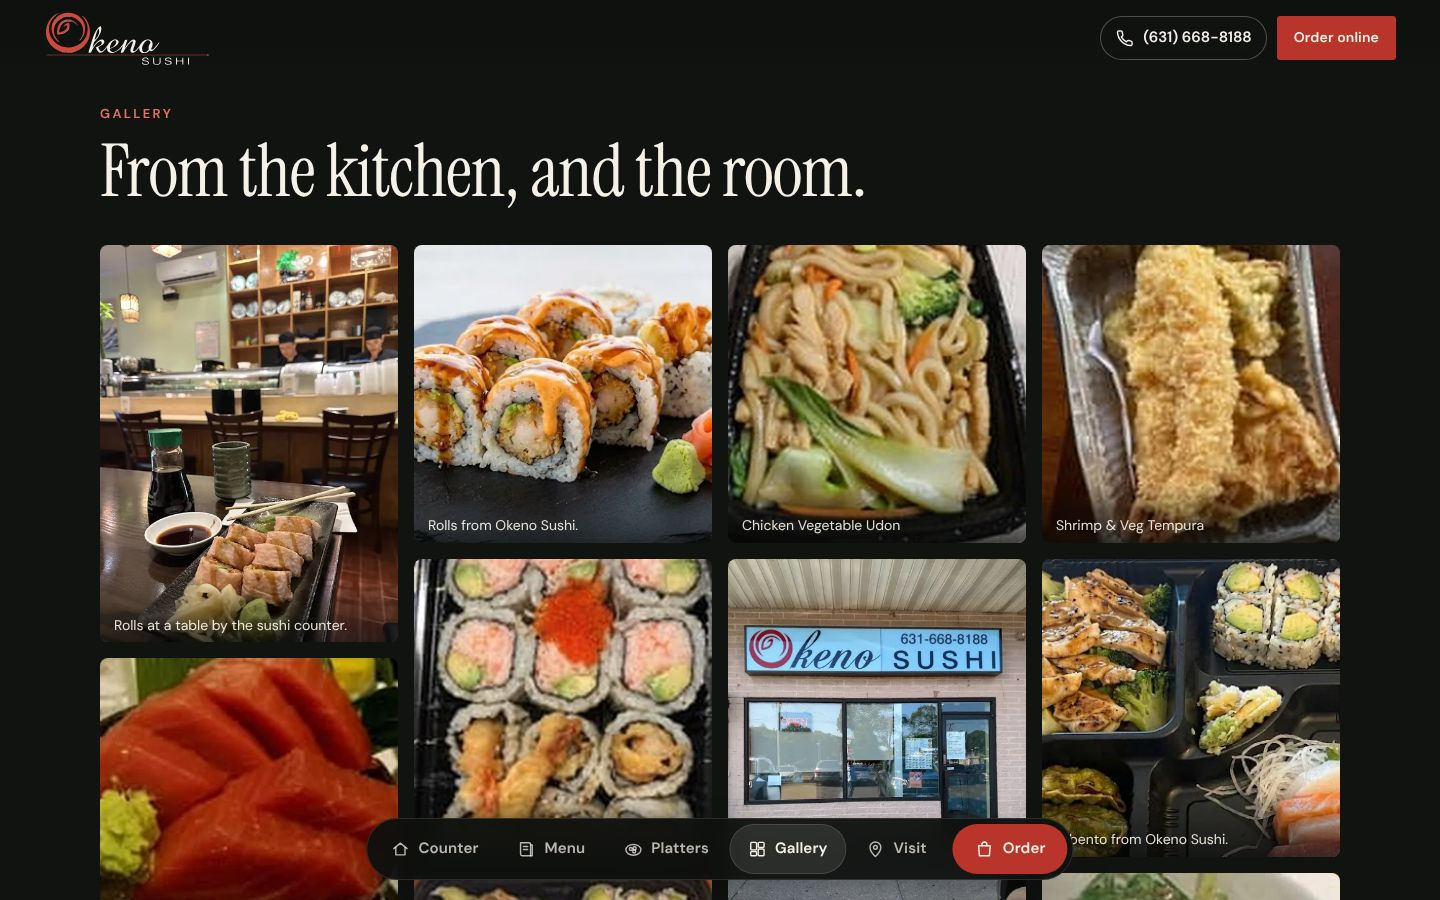
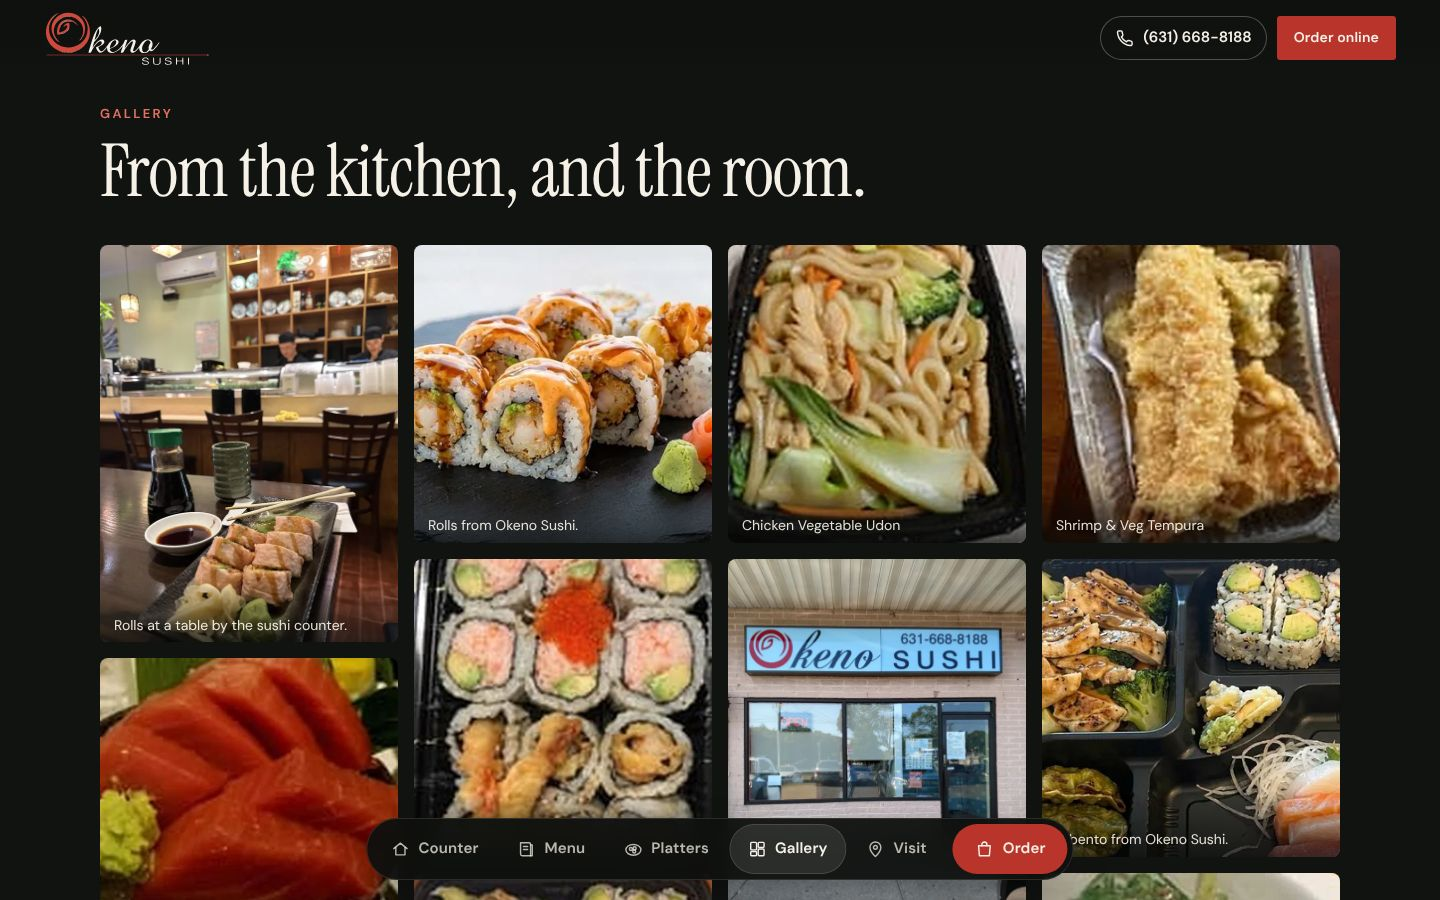
Use full-resolution originals for the four restaurant photos
Same design; only the image files change. The storefront and counter photos
now come from the 3000x4000 originals and the rolls and bento photos from the
1200px originals, with 600 and 1200 px web copies, so the gallery, lightbox
and visit photos are no longer stretched on high-density screens. The preload
and share image point at files that exist.

Claude-Session: https://claude.ai/code/session_01Q9Gd69AnLFXEvYT7HTwv8M

diff --git a/src/data/images.ts b/src/data/images.ts
@@ -38,23 +38,26 @@ const photo = (
   };
 };
 
+/** Small copy of the counter photo for the blurred light behind the counter scene. */
+export const COUNTER_GLOW = "/images/counter-600.jpg";
+
 export const PHOTOS = {
-  counter: photo("counter", "counter", 768, 1024, [480, 768], {
+  counter: photo("counter", "counter", 1200, 1600, [600, 1200], {
     alt: "A plate of sauced rolls with ginger and wasabi on a table, with the wooden sushi counter and two chefs behind it",
     caption: "Rolls at a table by the sushi counter.",
     credit: "Photo: marlyn meneses, via Google Maps",
   }),
-  rolls: photo("rolls", "rolls", 520, 290, [520], {
+  rolls: photo("rolls", "rolls", 1200, 669, [600, 1200], {
     alt: "Sauce-topped sushi rolls on a round dark slate with pickled ginger and wasabi",
     caption: "Rolls from Okeno Sushi.",
     credit: "Photo: DoorDash listing, via Google Maps",
   }),
-  bento: photo("bento", "bento", 520, 290, [520], {
+  bento: photo("bento", "bento", 1200, 669, [600, 1200], {
     alt: "A bento tray with grilled chicken and broccoli, a sesame roll, tempura, dumplings and sashimi",
     caption: "A bento from Okeno Sushi.",
     credit: "Photo: DoorDash listing, via Google Maps",
   }),
-  storefront: photo("storefront", "storefront", 768, 1024, [480, 768], {
+  storefront: photo("storefront", "storefront", 1200, 1600, [600, 1200], {
     alt: "The Okeno Sushi storefront: a brick shopfront with a lit sign reading Okeno Sushi 631-668-8188, an OPEN sign in the window and a glass door",
     caption: "The storefront at 451 Glen Drive.",
     credit: "Photo: Google Maps listing",

diff --git a/src/scenes/Counter.tsx b/src/scenes/Counter.tsx
@@ -3,7 +3,7 @@ import { Belt } from "../components/Belt";
 import { TastingFan } from "../components/TastingFan";
 import { ArrowIcon, StarIcon } from "../components/Icons";
 import { ADDRESS_LINE, GOOGLE_RATING, LINKS } from "../data/business";
-import { PHOTOS } from "../data/images";
+import { COUNTER_GLOW } from "../data/images";
 import { useScene } from "../lib/scenes";
 
 /** Headline words as spans, so they can rise one after another. */
@@ -43,7 +43,7 @@ export function Counter() {
       onPointerMove={onPointerMove}
     >
       <div className="counter__room" aria-hidden="true">
-        <img src={PHOTOS.counter.src} alt="" width={PHOTOS.counter.width} height={PHOTOS.counter.height} />
+        <img src={COUNTER_GLOW} alt="" width={600} height={800} />
       </div>
       <div className="counter__glow" aria-hidden="true" />
 

diff --git a/index.html b/index.html
@@ -15,7 +15,7 @@
     <meta property="og:title" content="Okeno Sushi · Shirley, NY" />
     <meta property="og:description" content="Sushi, sashimi, and Japanese favorites on Glen Drive." />
     <meta property="og:image" content="/images/dishes/ordering-sushi-sashimi-combo-for-2.jpg" />
-    <link rel="preload" as="image" href="/images/counter-768.jpg" />
+    <link rel="preload" as="image" href="/images/counter-600.jpg" />
     <script>
       // Before first paint: switch to the scene layout, show the scene named in the URL, and start
       // the noren arrival. index.html ends the arrival on a timer even if no script below runs

diff --git a/media/images/build_images.py b/media/images/build_images.py
@@ -16,10 +16,10 @@ SRC = os.path.join(ROOT, "media", "sources")
 OUT = os.path.join(ROOT, "public", "images")
 
 JOBS = [
-    ("photos/okeno-storefront.jpg", "storefront", [480, 768]),
-    ("photos/okeno-counter-with-rolls.jpg", "counter", [480, 768]),
-    ("photos/okeno-rolls-on-slate.jpg", "rolls", [520]),
-    ("photos/okeno-bento-platter.jpg", "bento", [520]),
+    ("photos/okeno-storefront.jpg", "storefront", [600, 1200]),
+    ("photos/okeno-counter-with-rolls.jpg", "counter", [600, 1200]),
+    ("photos/okeno-rolls-on-slate.jpg", "rolls", [600, 1200]),
+    ("photos/okeno-bento-platter.jpg", "bento", [600, 1200]),
     ("reference-menu/menu1.jpg", "menu-scan-1", [850]),
     ("reference-menu/menu2.jpg", "menu-scan-2", [850]),
     ("reference-menu/menu3.jpg", "menu-scan-3", [850]),

diff --git a/PHOTO-CREDITS.md b/PHOTO-CREDITS.md
@@ -33,10 +33,10 @@ Downloaded and visually inspected on October 11, 2026. The original URLs are in
 
 | File | What it shows | Gallery attribution / asset id | Used on the site |
 | --- | --- | --- | --- |
-| okeno-storefront.jpg (768×1024) | The brick storefront and lit Okeno Sushi sign | Maps gallery; uploader not established; b0670bde9442b264 | Visit, Gallery |
-| okeno-counter-with-rolls.jpg (768×1024) | Rolls on a table, the sushi counter and chefs | marlyn meneses, July 2025; 27261a11ff87fc66 | Counter background (blurred), Gallery |
-| okeno-rolls-on-slate.jpg (520×290) | Sauce-topped rolls on slate | DoorDash; de812f97fb415514 | Gallery |
-| okeno-bento-platter.jpg (520×290) | A bento tray | DoorDash; 81644b64a14948b1 | Gallery |
+| okeno-storefront.jpg (3000×4000) | The brick storefront and lit Okeno Sushi sign | Maps gallery; uploader not established; b0670bde9442b264 | Visit, Gallery |
+| okeno-counter-with-rolls.jpg (3000×4000) | Rolls on a table, the sushi counter and chefs | marlyn meneses, July 2025; 27261a11ff87fc66 | Counter background (blurred), Gallery |
+| okeno-rolls-on-slate.jpg (1200×669) | Sauce-topped rolls on slate | DoorDash; de812f97fb415514 | Gallery |
+| okeno-bento-platter.jpg (1200×669) | A bento tray | DoorDash; 81644b64a14948b1 | Gallery |
 
 The gallery lightbox credits each photo.
 

diff --git a/verification/report.md b/verification/report.md
@@ -1,6 +1,6 @@
 # Verification report
 
-Run against http://localhost:4173/ on 2026-10-11T22:47:11.326Z with Playwright Chromium (headless).
+Run against http://localhost:4173/ on 2026-10-12T13:08:05.700Z with Playwright Chromium (headless).
 
 **42 of 42 checks passed.**
 
@@ -21,7 +21,7 @@ Run against http://localhost:4173/ on 2026-10-11T22:47:11.326Z with Playwright C
 | Console | no errors (scene tour) | pass |  |
 | Scenes | a deep link (#visit) opens that scene before anything else | pass |  |
 | Scenes | two quick clicks during a curtain wipe end on the last one | pass | platters |
-| Belt | the belt advances by itself | pass | 137 → 213 |
+| Belt | the belt advances by itself | pass | 135 → 210 |
 | Belt | hovering stops the belt | pass |  |
 | Belt | Pause the belt holds it | pass |  |
 | Belt | dragging scrolls without opening a dish | pass |  |
